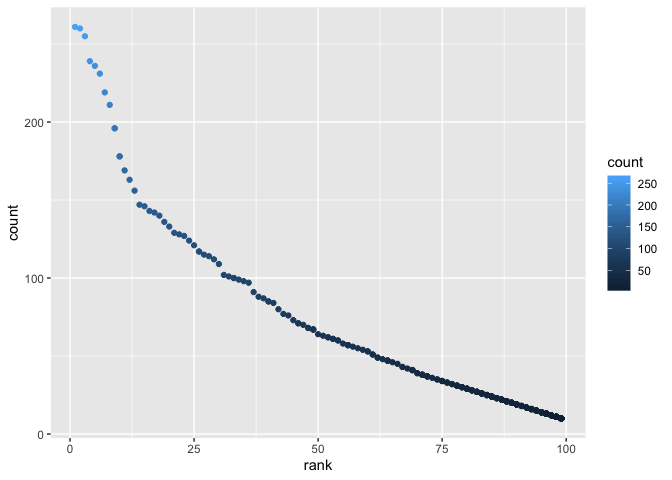
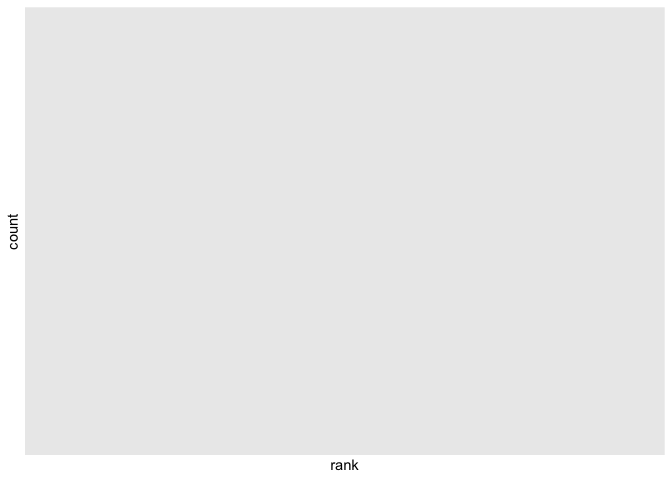
changed baby name tables to be by year

diff --git a/Homework-2.md b/Homework-2.md
@@ -12,14 +12,14 @@ Homework 2
 library(tidyverse)
 ```
 
-    ## ── Attaching packages ─────────────────────────────────────── tidyverse 1.2.1 ──
+    ## ── Attaching packages ────────────────────────────────────────────────────────────── tidyverse 1.2.1 ──
 
     ## ✔ ggplot2 3.2.1     ✔ purrr   0.3.2
     ## ✔ tibble  2.1.3     ✔ dplyr   0.8.3
     ## ✔ tidyr   1.0.0     ✔ stringr 1.4.0
     ## ✔ readr   1.3.1     ✔ forcats 0.4.0
 
-    ## ── Conflicts ────────────────────────────────────────── tidyverse_conflicts() ──
+    ## ── Conflicts ───────────────────────────────────────────────────────────────── tidyverse_conflicts() ──
     ## ✖ dplyr::filter() masks stats::filter()
     ## ✖ dplyr::lag()    masks stats::lag()
 
@@ -175,30 +175,6 @@ of precipitation is 32.93 inches.
 
 \*Clean data in pols-month.csv
 
-``` r
-#Import in pols_month data
-pols_month_data =
-  read_csv(file = "./data_hw2/fivethirtyeight_datasets/pols-month.csv") %>%
-  #Clean names
-  janitor::clean_names() %>%
-  #Separate the date into year, month, and day
-  separate(mon, c("year", "month", "day"), convert = TRUE) %>%
-   mutate(month = month.name[as.numeric(month)]) %>%
-  #Pivot longer to make prez_gop and prez_dem one column
-  pivot_longer(starts_with("prez_"),
-               values_to = "binary") %>%
-  #Filter for the ones in the binary column
-  filter(binary == 1) %>%
-  #Arrange by year and month
-  arrange(year, month) %>%
-  #Get rid of binary and day columns, change the column we pivoted to president
-  select(-day,-binary, president = name) %>%
-  #Transform president so that we drop "prez_" from the beginning of each value
-  transform(president = str_replace(president, "prez_", ""))%>%
-  #Make sure each row is distinct (remove duplicates)
-  distinct()
-```
-
     ## Parsed with column specification:
     ## cols(
     ##   mon = col_date(format = ""),
@@ -211,10 +187,6 @@ pols_month_data =
     ##   sen_dem = col_double(),
     ##   rep_dem = col_double()
     ## )
-
-``` r
-pols_month_data
-```
 
     ##     year     month gov_gop sen_gop rep_gop gov_dem sen_dem rep_dem
     ## 1   1947     April      23      51     253      23      45     198
@@ -3637,6 +3609,7 @@ popular_baby =
   mutate(ethnicity = recode(ethnicity, 'ASIAN AND PACIFIC ISLANDER' = "asian and pacific islander",'BLACK NON HISPANIC' = "black", 'HISPANIC' = "hispanic", 'WHITE NON HISPANIC' = "white", 'ASIAN AND PACI' = "asian and pacific islander", 'BLACK NON HISP' = "black", 'WHITE NON HISP' = "white")) %>%
 #Mutate the childs_first_name values to lowercase as some are upper and some are lower
   mutate(childs_first_name = str_to_lower(childs_first_name)) %>%
+  mutate(gender = str_to_lower(gender)) %>%
 #Group the data by first name, rank, and gender
   group_by(childs_first_name, rank, gender) %>%
 #Ensure the rows are distinct
@@ -3661,16 +3634,16 @@ popular_baby
     ## # Groups:   childs_first_name, rank, gender [10,383]
     ##    year_of_birth gender ethnicity              childs_first_na… count  rank
     ##            <dbl> <chr>  <chr>                  <chr>            <dbl> <dbl>
-    ##  1          2016 FEMALE asian and pacific isl… olivia             172     1
-    ##  2          2016 FEMALE asian and pacific isl… chloe              112     2
-    ##  3          2016 FEMALE asian and pacific isl… sophia             104     3
-    ##  4          2016 FEMALE asian and pacific isl… emily               99     4
-    ##  5          2016 FEMALE asian and pacific isl… emma                99     4
-    ##  6          2016 FEMALE asian and pacific isl… mia                 79     5
-    ##  7          2016 FEMALE asian and pacific isl… charlotte           59     6
-    ##  8          2016 FEMALE asian and pacific isl… sarah               57     7
-    ##  9          2016 FEMALE asian and pacific isl… isabella            56     8
-    ## 10          2016 FEMALE asian and pacific isl… hannah              56     8
+    ##  1          2016 female asian and pacific isl… olivia             172     1
+    ##  2          2016 female asian and pacific isl… chloe              112     2
+    ##  3          2016 female asian and pacific isl… sophia             104     3
+    ##  4          2016 female asian and pacific isl… emily               99     4
+    ##  5          2016 female asian and pacific isl… emma                99     4
+    ##  6          2016 female asian and pacific isl… mia                 79     5
+    ##  7          2016 female asian and pacific isl… charlotte           59     6
+    ##  8          2016 female asian and pacific isl… sarah               57     7
+    ##  9          2016 female asian and pacific isl… isabella            56     8
+    ## 10          2016 female asian and pacific isl… hannah              56     8
     ## # … with 12,171 more rows
 
 \*Create a table of the popularity of the name Olivia
@@ -3678,28 +3651,27 @@ popular_baby
 ``` r
 #Create data table with name Olivia as female baby name over time
 female_name = 
-  select(popular_baby, year_of_birth:rank) %>%
-  filter(gender == "FEMALE", childs_first_name == "olivia") %>%
-  arrange(year_of_birth, rank)
+  filter(popular_baby, childs_first_name == "olivia") %>%
+  select(-gender, -count, -childs_first_name) %>%
+  pivot_wider(names_from = "year_of_birth",
+              values_from = "rank")
+```
 
+    ## Adding missing grouping variables: `childs_first_name`, `gender`
+
+``` r
 female_name
 ```
 
-    ## # A tibble: 24 x 6
-    ## # Groups:   childs_first_name, rank, gender [11]
-    ##    year_of_birth gender ethnicity              childs_first_na… count  rank
-    ##            <dbl> <chr>  <chr>                  <chr>            <dbl> <dbl>
-    ##  1          2011 FEMALE white                  olivia             213     2
-    ##  2          2011 FEMALE asian and pacific isl… olivia              89     4
-    ##  3          2011 FEMALE black                  olivia              52    10
-    ##  4          2011 FEMALE hispanic               olivia              86    18
-    ##  5          2012 FEMALE asian and pacific isl… olivia             132     3
-    ##  6          2012 FEMALE white                  olivia             198     4
-    ##  7          2012 FEMALE black                  olivia              58     8
-    ##  8          2012 FEMALE hispanic               olivia              77    22
-    ##  9          2013 FEMALE white                  olivia             233     1
-    ## 10          2013 FEMALE asian and pacific isl… olivia             109     3
-    ## # … with 14 more rows
+    ## # A tibble: 4 x 9
+    ## # Groups:   childs_first_name, gender [1]
+    ##   childs_first_na… gender ethnicity `2016` `2015` `2014` `2013` `2012`
+    ##   <chr>            <chr>  <chr>      <dbl>  <dbl>  <dbl>  <dbl>  <dbl>
+    ## 1 olivia           female asian an…      1      1      1      3      3
+    ## 2 olivia           female black          8      4      8      6      8
+    ## 3 olivia           female hispanic      13     16     16     22     22
+    ## 4 olivia           female white          1      1      1      1      4
+    ## # … with 1 more variable: `2011` <dbl>
 
   - Create a table of the most popular male baby names
 
@@ -3707,26 +3679,26 @@ female_name
 
 ``` r
 male_name = 
-  arrange(popular_baby, year_of_birth, ethnicity, childs_first_name) %>%
-  filter(gender == "MALE", rank == 1)
+  filter(popular_baby, gender == "male", rank == 1) %>%
+  select(-gender, -count, -rank) %>%
+  pivot_wider(names_from = "year_of_birth",
+              values_from = "childs_first_name")
+```
+
+    ## Adding missing grouping variables: `rank`, `gender`
+
+``` r
 male_name
 ```
 
-    ## # A tibble: 24 x 6
-    ## # Groups:   childs_first_name, rank, gender [8]
-    ##    year_of_birth gender ethnicity              childs_first_na… count  rank
-    ##            <dbl> <chr>  <chr>                  <chr>            <dbl> <dbl>
-    ##  1          2011 MALE   asian and pacific isl… ethan              177     1
-    ##  2          2011 MALE   black                  jayden             184     1
-    ##  3          2011 MALE   hispanic               jayden             426     1
-    ##  4          2011 MALE   white                  michael            292     1
-    ##  5          2012 MALE   asian and pacific isl… ryan               197     1
-    ##  6          2012 MALE   black                  jayden             171     1
-    ##  7          2012 MALE   hispanic               jayden             364     1
-    ##  8          2012 MALE   white                  joseph             300     1
-    ##  9          2013 MALE   asian and pacific isl… jayden             220     1
-    ## 10          2013 MALE   black                  ethan              146     1
-    ## # … with 14 more rows
+    ## # A tibble: 4 x 9
+    ## # Groups:   rank, gender [1]
+    ##    rank gender ethnicity          `2016` `2015` `2014` `2013` `2012` `2011`
+    ##   <dbl> <chr>  <chr>              <chr>  <chr>  <chr>  <chr>  <chr>  <chr> 
+    ## 1     1 male   asian and pacific… ethan  jayden jayden jayden ryan   ethan 
+    ## 2     1 male   black              noah   noah   ethan  ethan  jayden jayden
+    ## 3     1 male   hispanic           liam   liam   liam   jayden jayden jayden
+    ## 4     1 male   white              joseph david  joseph david  joseph micha…
 
   - Create a ggplot of male, white, non-Hispanic children in
 2016
@@ -3742,21 +3714,10 @@ white_male =
 white_male
 ```
 
-    ## # A tibble: 364 x 6
-    ## # Groups:   childs_first_name, rank, gender [364]
-    ##    year_of_birth gender ethnicity childs_first_name  rank count
-    ##            <dbl> <chr>  <chr>     <chr>             <dbl> <dbl>
-    ##  1          2016 MALE   white     joseph                1   261
-    ##  2          2016 MALE   white     michael               2   260
-    ##  3          2016 MALE   white     david                 3   255
-    ##  4          2016 MALE   white     moshe                 4   239
-    ##  5          2016 MALE   white     jacob                 5   236
-    ##  6          2016 MALE   white     james                 6   231
-    ##  7          2016 MALE   white     benjamin              7   219
-    ##  8          2016 MALE   white     alexander             8   211
-    ##  9          2016 MALE   white     daniel                9   196
-    ## 10          2016 MALE   white     henry                 9   196
-    ## # … with 354 more rows
+    ## # A tibble: 0 x 6
+    ## # Groups:   childs_first_name, rank, gender [0]
+    ## # … with 6 variables: year_of_birth <dbl>, gender <chr>, ethnicity <chr>,
+    ## #   childs_first_name <chr>, rank <dbl>, count <dbl>
 
 ``` r
 #Using this dataset white_male we plotted x as the rank and y as the count for 2016 white, non-Hispanic babies of count against rank
